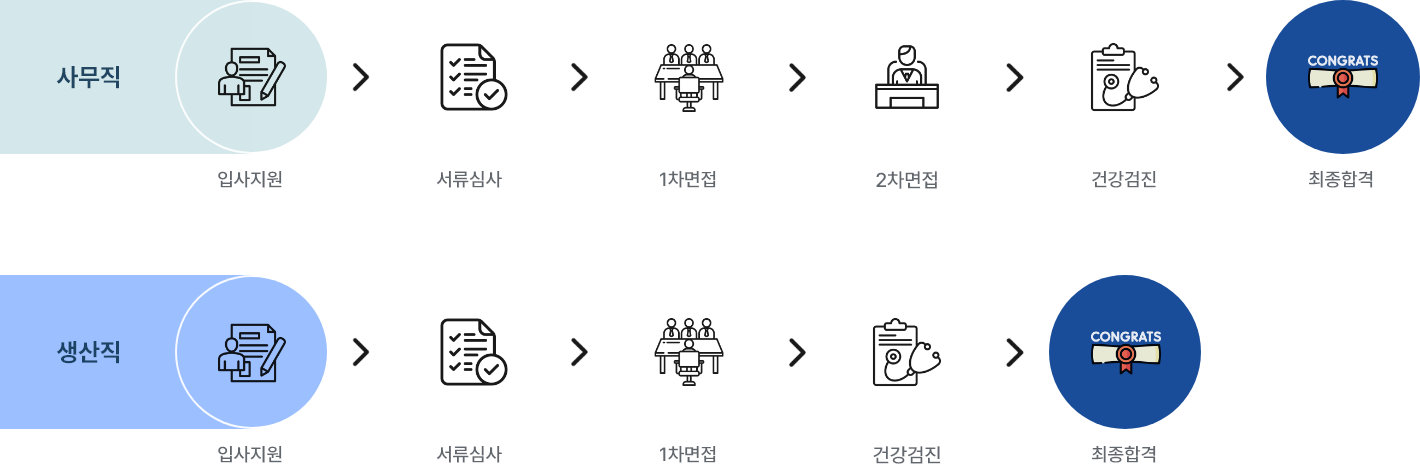
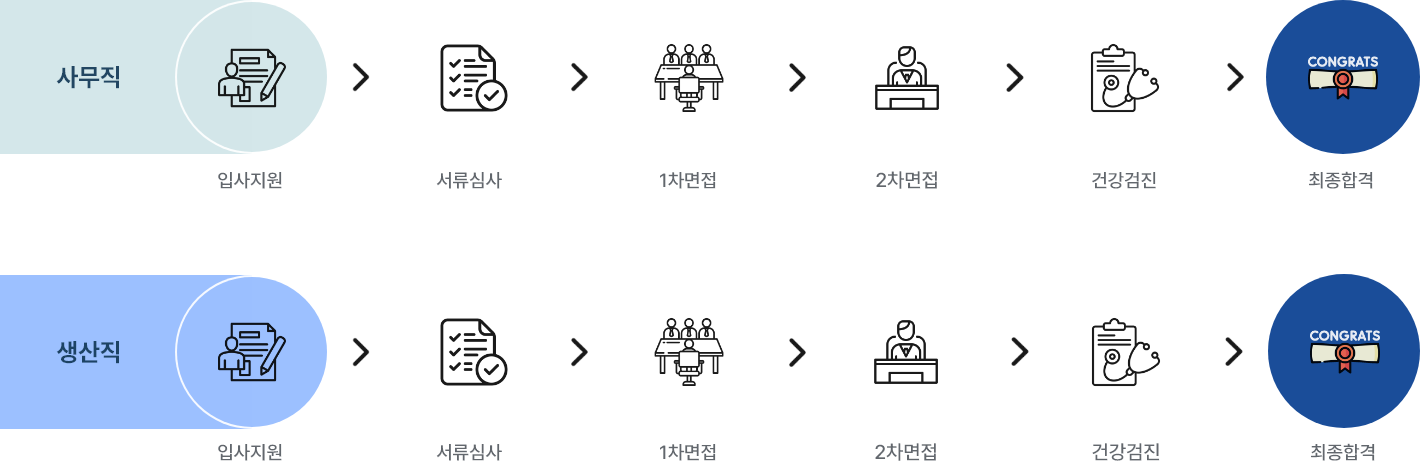
고객요청사항 반영.

diff --git a/src/app/(pages)/career/application/page.tsx b/src/app/(pages)/career/application/page.tsx
@@ -17,14 +17,14 @@ export default async function ApplicationPage({searchParams: {lang, page}}: any)
         <div className="application">
           <div className="application-header">
             <h2>Procedure for recruitment</h2>
-            <Link href="#">채용공고 포털사이트</Link>
+            <Link href="#job-opening-list">채용공고</Link>
           </div>
           <section className="full-size">
             <div>
               <div>
                 <Image src="/images/sub/career/application/application-01-pc.png" alt="" width={1420} height={467}/>
               </div>
-              <p><span>1, 2차 면접은 동시에 진행될 수 있습니다.</span></p>
+              <p><span>1, 2차 면접은 동시에 진행될 수 있습니다. <br/>인적성검사 및 레퍼런스 체크가 포함됩니다.</span></p>
             </div>
           </section>
           <section className="application-content2">
@@ -76,8 +76,11 @@ export default async function ApplicationPage({searchParams: {lang, page}}: any)
               <li><span>·</span> 근무시간: 주 5일 08:00~17:00, 야간 20:00~05:00(생산 정규직)</li>
             </ul>
           </section>
+         
+         
           <section className="application-content4">
             <h2>Rank &amp; Title</h2>
+
             <div>
               <div className="ranks">
                 <p className="rank-01">G7</p>
@@ -109,7 +112,44 @@ export default async function ApplicationPage({searchParams: {lang, page}}: any)
                 <p className="rank-position-04">수습사원(경력포함)</p>
               </div>
             </div>
-          </section>
+            </section>
+
+            <section className="application-content4">
+            <div>
+              <div className="ranks">
+                <p className="rank-01">G7</p>
+                <p className="rank-02">G6</p>
+                <p className="rank-03">G5</p>
+              </div>
+              <div className="positions">
+                <p className="rank-position-01">반장</p>
+                <p className="rank-position-02">조장</p>
+                <p className="rank-position-02">리더</p>
+              </div>
+            </div>
+            <div>
+              <div className="ranks">
+                <p className="rank-04">G4</p>
+                <p className="rank-05">G3</p>
+                <p className="rank-06">G2</p>
+                <p className="rank-07">G1</p>
+              </div>
+              <div className="positions">
+                <p className="rank-position-03">사원</p>
+              </div>
+            </div>
+            <div>
+              <div className="ranks">
+                <p className="rank-08">E</p>
+              </div>
+              <div className="positions">
+                <p className="rank-position-04">수습사원(경력포함)</p>
+              </div>
+            </div>
+            </section>
+
+
+
           <section className="application-content5">
             <h2>Evaluation system</h2>
             <p>
@@ -134,7 +174,7 @@ export default async function ApplicationPage({searchParams: {lang, page}}: any)
             </div>
             <p>아래 채용 공고를 확인 후 지원서를 작성하여 상세페이지 내에서 입사지원서류를 업로드 합니다.</p>
           </section>
-          <section className="application-content7">
+          <section id="job-opening-list" className="application-content7">
             <h2>Job Opening List</h2>
             <p>조건을 선택하면 아래에 검색 결과가 표시됩니다. 키워드 검색 시 선택한 조건은 자동 해제 됩니다.</p>
             <ApplicationList page={page || 1}/>

diff --git a/src/app/(pages)/career/position/production/page.tsx b/src/app/(pages)/career/position/production/page.tsx
@@ -18,7 +18,7 @@ export default async function ProductionPage({searchParams : {lang}} : any) {
                         <h3>{language?.position_01_01}</h3>
                         <ul>
                             <li className="introduce"><Link href="/career/position/factory">{language?.position_01_02}</Link></li>
-                            {language.language === 'kr' && <li className="go"><Link href="#">{language?.position_01_03}</Link></li>}
+                            {language.language === 'kr' && <li className="go"><Link href="/career/application#job-application-list">{language?.position_01_03}</Link></li>}
 
                         </ul>
                     </div>
@@ -35,26 +35,24 @@ export default async function ProductionPage({searchParams : {lang}} : any) {
                     <div className="position-content production">
                         <p><Image src="/images/sub/career/position/position-04-01.jpg" alt="" width={1420} height={430}/></p>
                         <dl className="production-01">
-                            <dt>{language?.position_01_70}<span>{language?.position_01_71}</span></dt>
+                            <dt>{language?.position_01_83_01}<span>{language?.position_01_83_02}</span></dt>
                             <dd>
-                                <p>{language?.position_01_72}</p>
+                                <p>{language?.position_01_83_03}</p>
                                 <ul>
-                                    <li>{language?.position_01_73}</li>
-                                    <li>{language?.position_01_74}</li>
-                                    <li>{language?.position_01_75}</li>
+                                    <li>{language?.position_01_83_04}</li>
+                                    <li>{language?.position_01_83_05}</li>
+                                    <li>{language?.position_01_83_06}</li>
                                 </ul>
                             </dd>
                         </dl>
                         <dl className="production-02">
-                            <dt>{language?.position_01_76}<span>{language?.position_01_77}</span></dt>
+                            <dt>{language?.position_01_83_07}<span>{language?.position_01_83_08}</span></dt>
                             <dd>
-                                <p>{language?.position_01_78}</p>
+                                <p>{language?.position_01_83_09}</p>
                                 <ul>
-                                    <li>{language?.position_01_79}</li>
-                                    <li>{language?.position_01_80}</li>
-                                    <li>{language?.position_01_81}</li>
-                                    <li>{language?.position_01_82}</li>
-                                    <li>{language?.position_01_83}</li>
+                                    <li>{language?.position_01_83_10}</li>
+                                    <li>{language?.position_01_83_11}</li>
+                                    <li>{language?.position_01_83_12}</li>
                                 </ul>
                             </dd>
                         </dl>

diff --git a/src/app/(pages)/career/position/factory/page.tsx b/src/app/(pages)/career/position/factory/page.tsx
@@ -15,10 +15,10 @@ export default async function FactoryPage({searchParams : {lang}} : any) {
                 <CareerHeader language={language} activeIndex={0}/>
                 <div className="career-container">
                     <div className="career-content-header">
-                        <h3>{language?.position_01_01}</h3>
+                        <h3>{language?.position_01_02}</h3>
                         <ul>
                             <li className="introduce factory"><Link href="/career/position/quality">{language?.position_01_01}</Link></li>
-                            {language.language === 'kr' && <li className="go"><Link href="#">{language?.position_01_03}</Link></li>}
+                            {language.language === 'kr' && <li className="go"><Link href="/career/application#job-application-list">{language?.position_01_03}</Link></li>}
 
                         </ul>
                     </div>

diff --git a/src/app/(pages)/career/position/quality/page.tsx b/src/app/(pages)/career/position/quality/page.tsx
@@ -18,7 +18,7 @@ export default async function QualityPage({searchParams : {lang}} : any) {
                         <h3>{language?.position_01_01}</h3>
                         <ul>
                             <li className="introduce"><Link href="/career/position/factory">{language?.position_01_02}</Link></li>
-                            {language?.language === 'kr' && <li className="go"><Link href="#">{language?.position_01_03}</Link></li>}
+                            {language?.language === 'kr' && <li className="go"><Link href="/career/application#job-application-list">{language?.position_01_03}</Link></li>}
                         </ul>
                     </div>
                     <div className="position-list">

diff --git a/src/app/(pages)/career/position/management/page.tsx b/src/app/(pages)/career/position/management/page.tsx
@@ -18,7 +18,7 @@ export default async function QualityPage({searchParams : {lang}} : any) {
                         <h3>{language?.position_01_01}</h3>
                         <ul>
                             <li className="introduce"><Link href="/career/position/factory">{language?.position_01_02}</Link></li>
-                            {language.language === 'kr' && <li className="go"><Link href="#">{language?.position_01_03}</Link></li>}
+                            {language.language === 'kr' && <li className="go"><Link href="/career/application#job-application-list">{language?.position_01_03}</Link></li>}
                         </ul>
                     </div>
                     <div className="position-list">

diff --git a/src/app/(pages)/career/position/procurement/page.tsx b/src/app/(pages)/career/position/procurement/page.tsx
@@ -18,7 +18,7 @@ export default async function ProcurementPage({searchParams : {lang}} : any) {
                         <h3>{language?.position_01_01}</h3>
                         <ul>
                             <li className="introduce"><Link href="/career/position/factory">{language?.position_01_02}</Link></li>
-                            {language.language === 'kr' && <li className="go"><Link href="#">{language?.position_01_03}</Link></li>}
+                            {language.language === 'kr' && <li className="go"><Link href="/career/application#job-application-list">{language?.position_01_03}</Link></li>}
 
                         </ul>
                     </div>

diff --git a/src/app/(pages)/career/position/sales/page.tsx b/src/app/(pages)/career/position/sales/page.tsx
@@ -18,7 +18,7 @@ export default async function SalesPage({searchParams : {lang}} : any) {
                         <h3>{language?.position_01_01}</h3>
                         <ul>
                             <li className="introduce"><Link href="/career/position/factory">{language?.position_01_02}</Link></li>
-                            {language.language === 'kr' && <li className="go"><Link href="#">{language?.position_01_03}</Link></li>}
+                            {language.language === 'kr' && <li className="go"><Link href="/career/application#job-application-list">{language?.position_01_03}</Link></li>}
 
                         </ul>
                     </div>

diff --git a/src/app/(pages)/career/position/rnd/page.tsx b/src/app/(pages)/career/position/rnd/page.tsx
@@ -18,7 +18,7 @@ export default async function RndPage({searchParams : {lang}} : any) {
                         <h3>{language?.position_01_01}</h3>
                         <ul>
                             <li className="introduce"><Link href="/career/position/factory">{language?.position_01_02}</Link></li>
-                            {language.language === 'kr' && <li className="go"><Link href="#">{language?.position_01_03}</Link></li>}
+                            {language.language === 'kr' && <li className="go"><Link href="/career/application#job-application-list">{language?.position_01_03}</Link></li>}
 
                         </ul>
                     </div>
